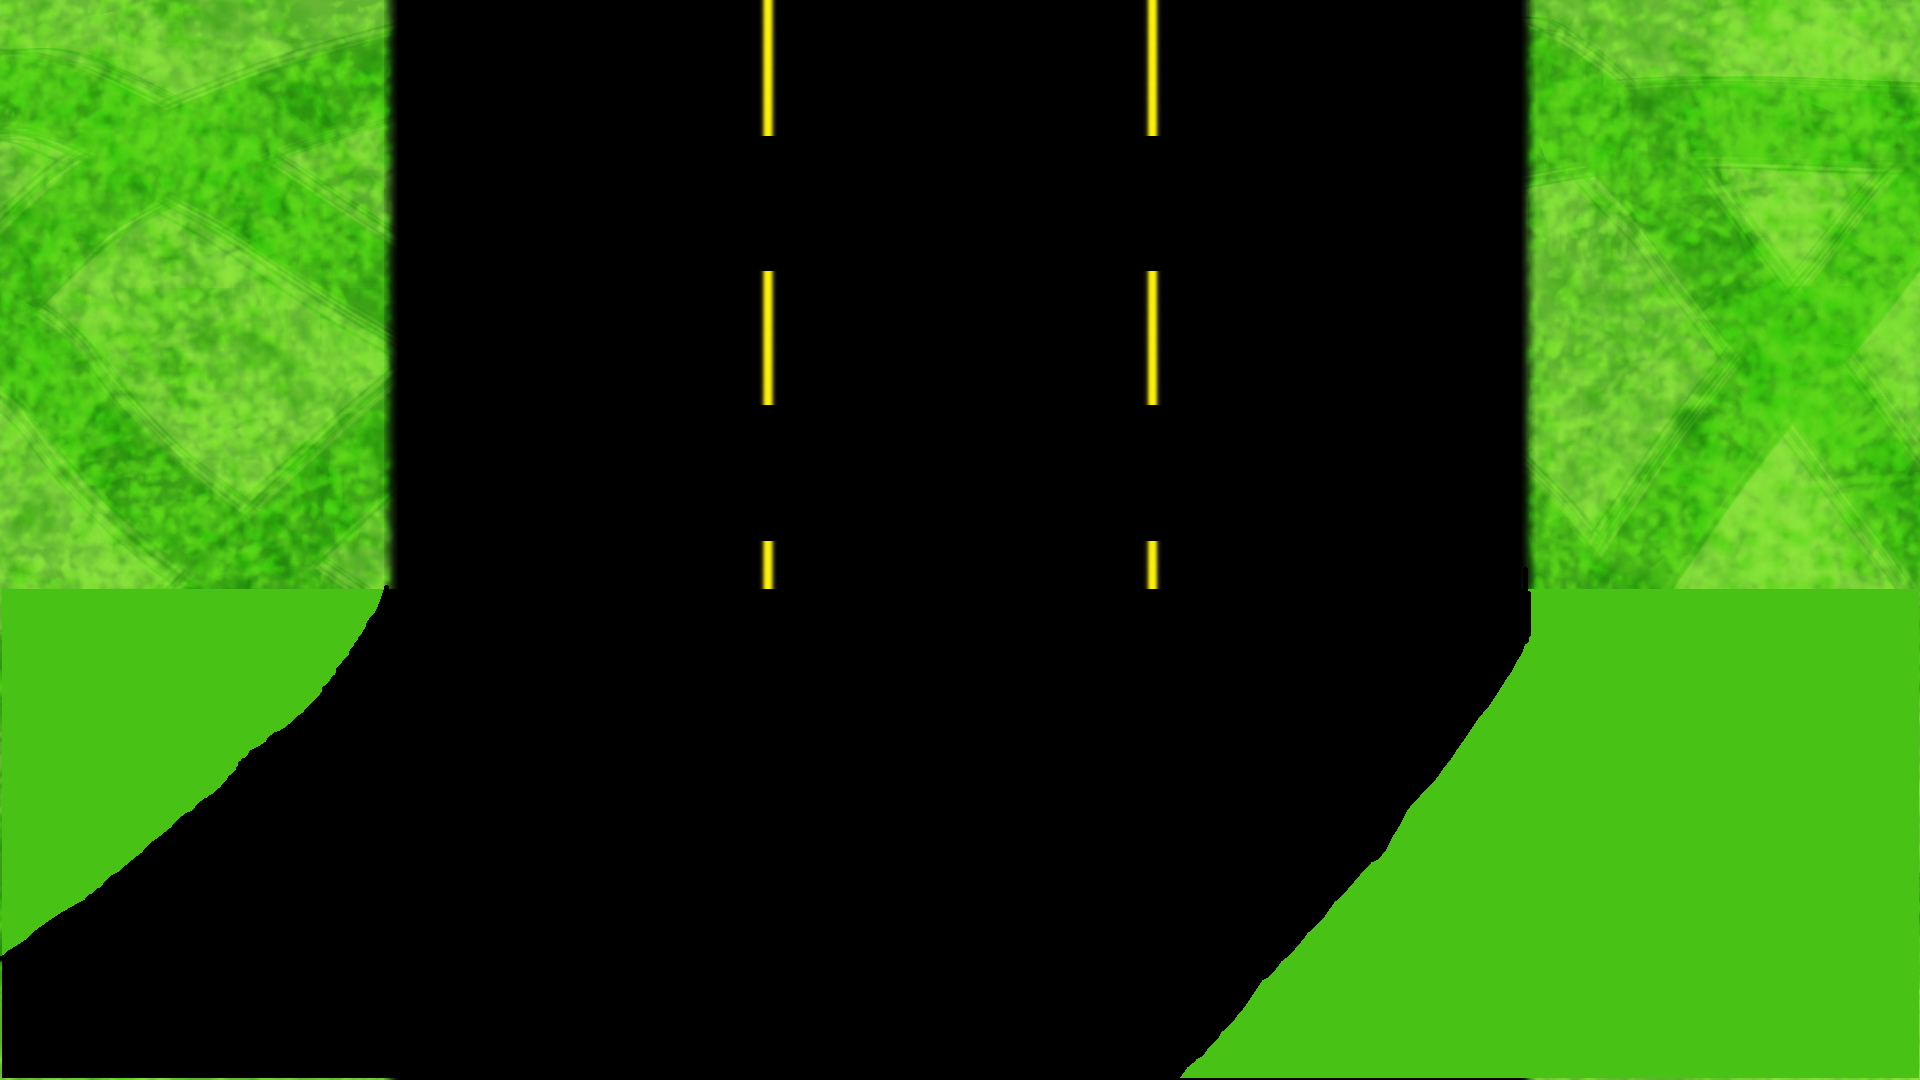
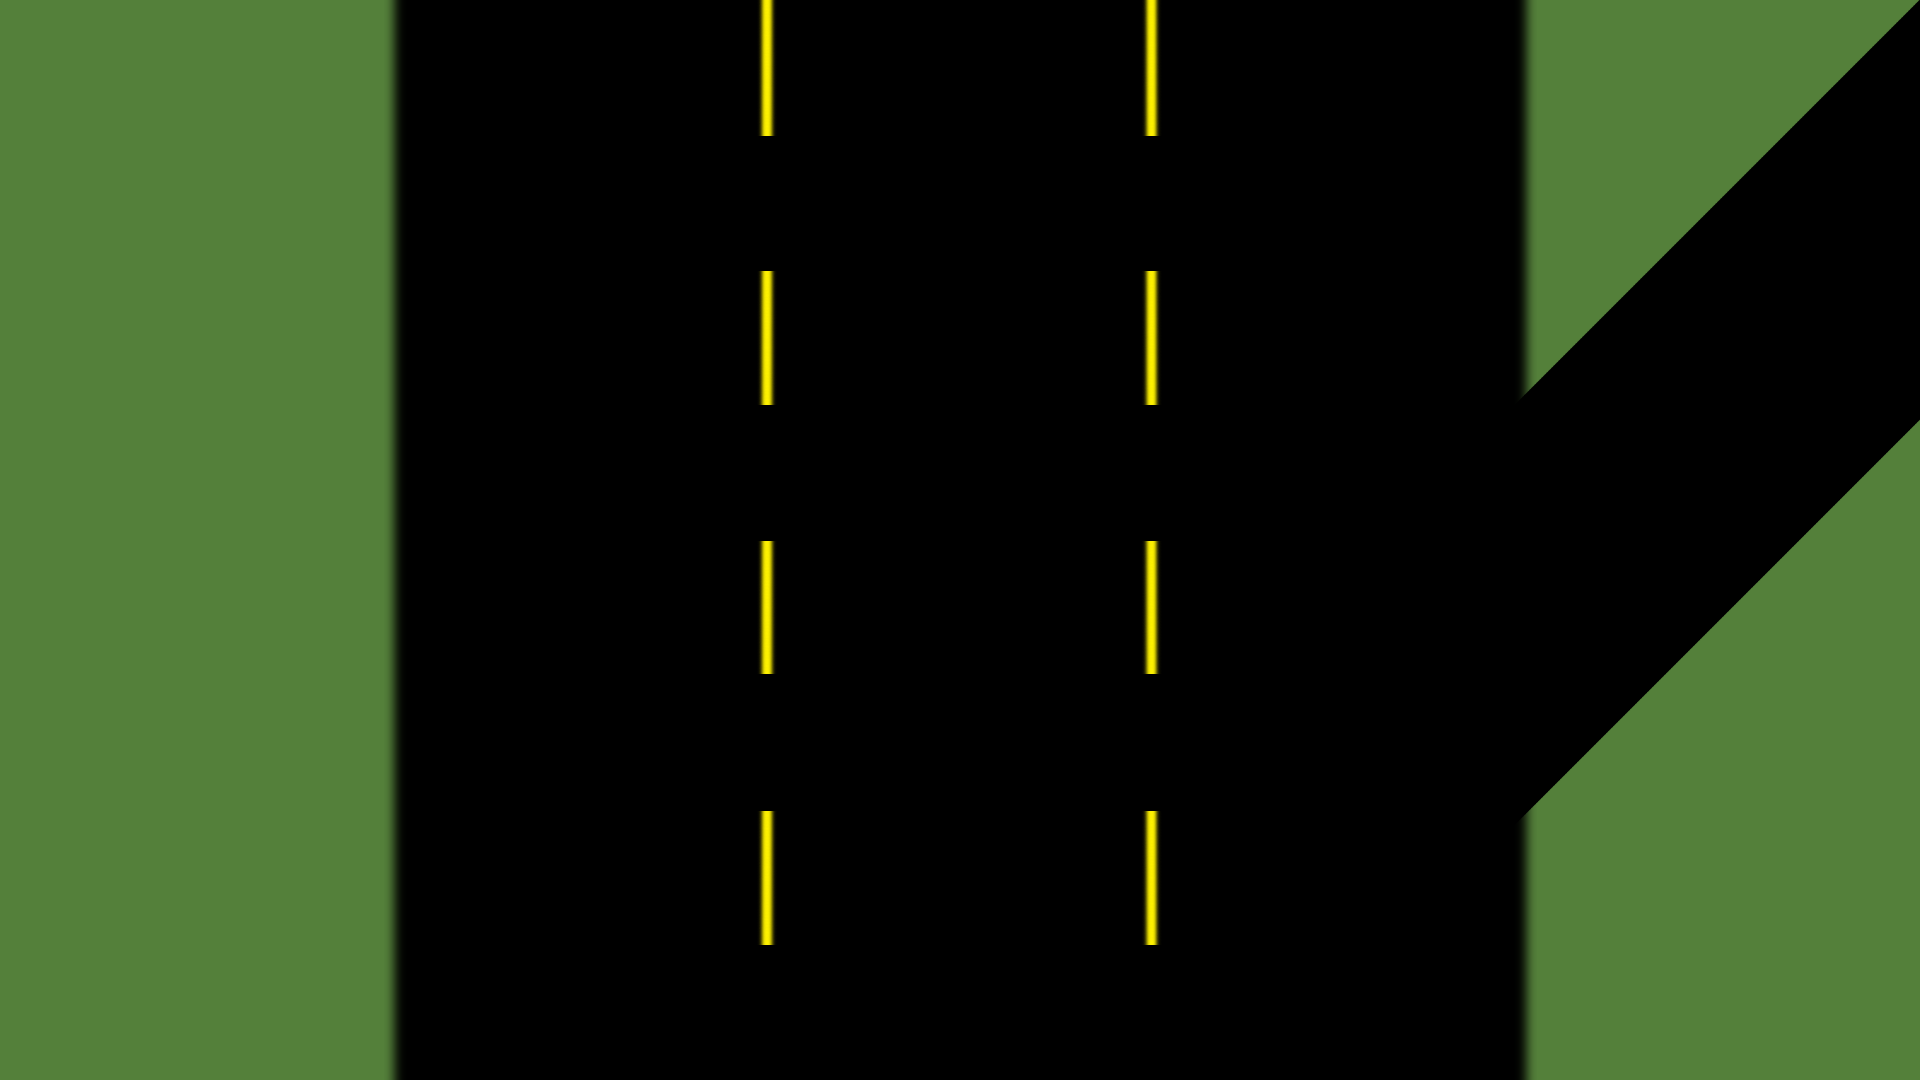
road assets

diff --git a/core/src/edu/cornell/gdiac/mangosnoops/roadentity/Road.java b/core/src/edu/cornell/gdiac/mangosnoops/roadentity/Road.java
@@ -212,15 +212,7 @@ public class Road extends RoadObject {
             canvas.drawRoadObject(grassTexture, LEFT_GRASS_X, y, ROAD_HOVER_DISTANCE, GRASS_WIDTH, GRASS_HEIGHT, ROAD_X_ROTATION, 0);
 
             // Draw grass on the right
-            if (y > exitY) {
-                /* FIXME: The grass and the exit overlap a bit and look weird */
-                canvas.drawRoadObject(grassTexture, RIGHT_GRASS_X+EXIT_GRASS_OFFSET, y, ROAD_HOVER_DISTANCE, GRASS_WIDTH, GRASS_HEIGHT, ROAD_X_ROTATION, 0);
-            } else {
-                canvas.drawRoadObject(grassTexture, RIGHT_GRASS_X, y, ROAD_HOVER_DISTANCE, GRASS_WIDTH, GRASS_HEIGHT, ROAD_X_ROTATION, 0);
-            }
-
-            // Draw exit on the right
-            canvas.drawRoadObject(exitTexture, EXIT_X, exitY,  ROAD_HOVER_DISTANCE, EXIT_WIDTH, EXIT_HEIGHT, ROAD_X_ROTATION, 0);
+            canvas.drawRoadObject(grassTexture, RIGHT_GRASS_X, y, ROAD_HOVER_DISTANCE, GRASS_WIDTH, GRASS_HEIGHT, ROAD_X_ROTATION, 0);
 
             // Draw exit road
             if (y > exitY) {

diff --git a/core/src/edu/cornell/gdiac/mangosnoops/CollisionController.java b/core/src/edu/cornell/gdiac/mangosnoops/CollisionController.java
@@ -45,7 +45,7 @@ public class CollisionController {
 	/** A factor to determine the gnome and car have collided. */
 	private static final float HIT_RANGE = 0.09f;
 
-	private static final float CAR_YRANGE_END = 0f;
+	private static final float CAR_YRANGE_END = -0.25f;
 	private static final float CAR_YRANGE_START  = -0.5f;
 
 	// These cannot be modified after the controller is constructed.
